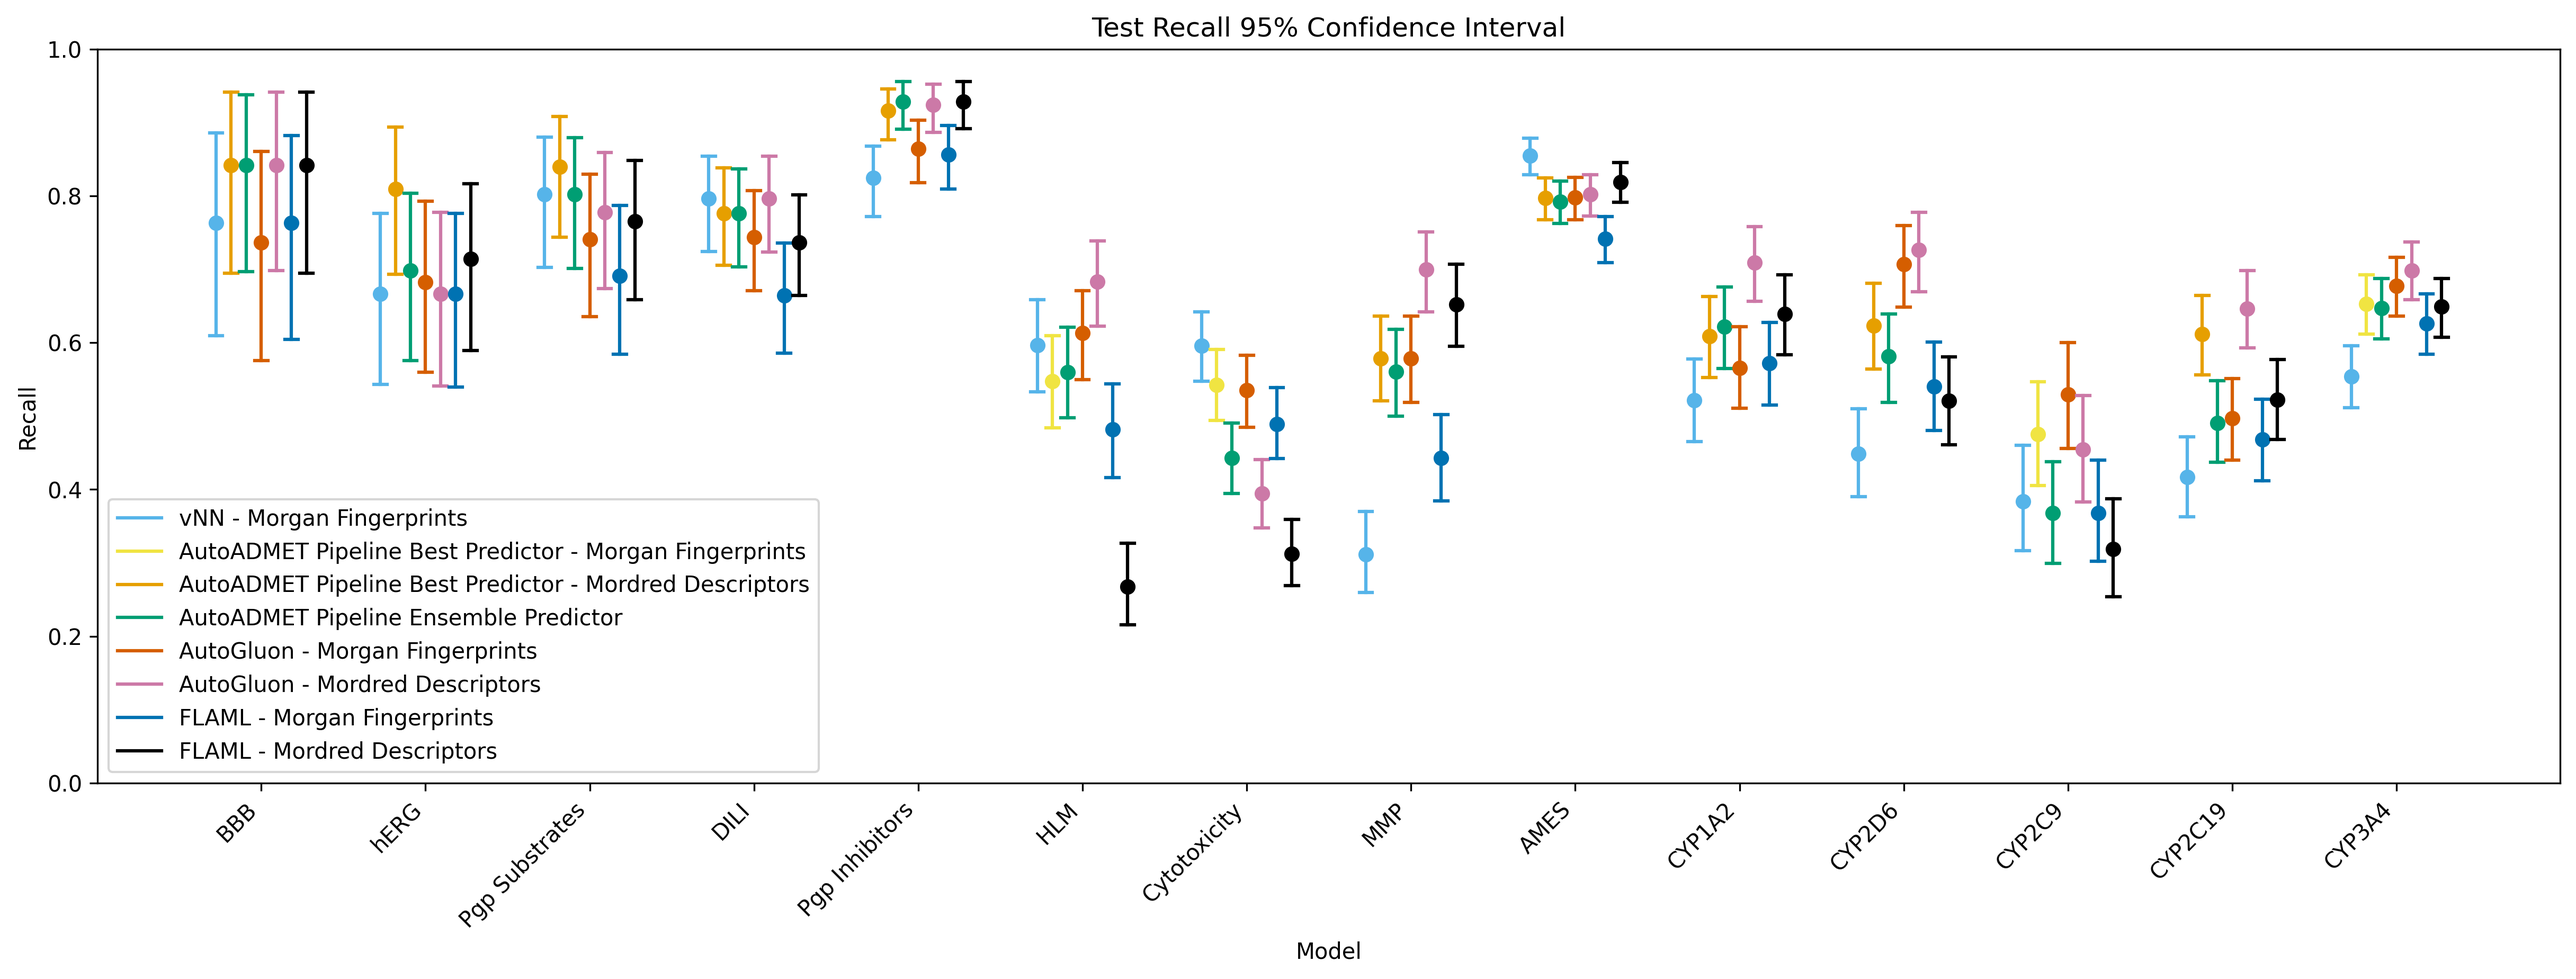
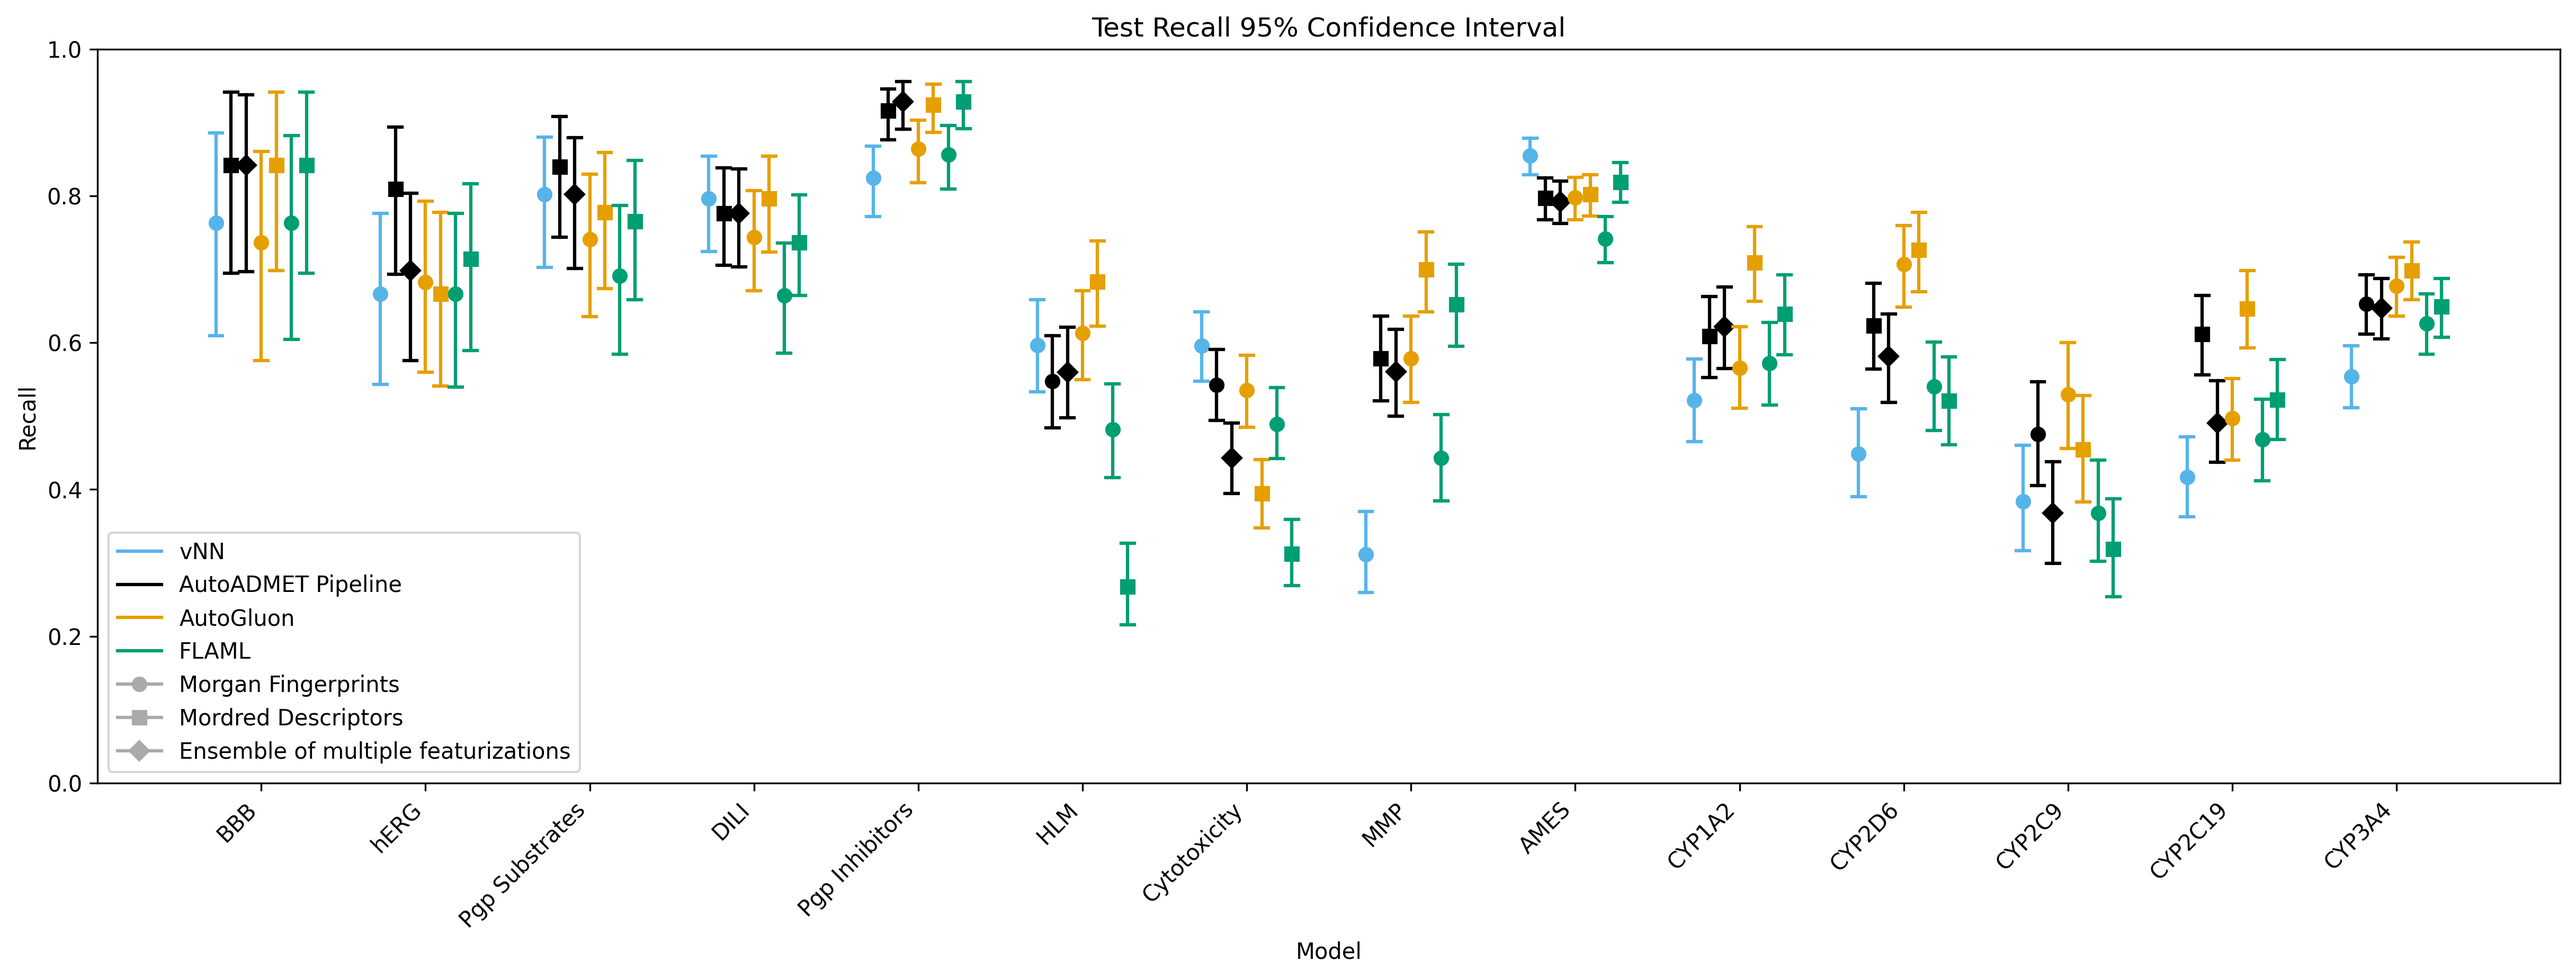
Change colors for extra frameworks

diff --git a/visualization/plot_performance.py b/visualization/plot_performance.py
@@ -3,6 +3,7 @@ from pathlib import Path
 import pandas as pd
 import itertools as it
 from matplotlib.lines import Line2D
+from matplotlib.markers import MarkerStyle
 import matplotlib.pyplot as plt
 from matplotlib import colors as mcolors
 import numpy as np
@@ -58,6 +59,7 @@ PLOT_CONFIGS = [
         0,
         "vNN - Morgan Fingerprints",
         "#56B4E9",
+        "o",
     ),
     (
         "autoadmet",
@@ -65,6 +67,7 @@ PLOT_CONFIGS = [
         1,
         "AutoADMET Pipeline Best Predictor - Morgan Fingerprints",
         "#F0E442",
+        "o",
     ),
     (
         "autoadmet",
@@ -72,6 +75,7 @@ PLOT_CONFIGS = [
         1,
         "AutoADMET Pipeline Best Predictor - Mordred Descriptors",
         "#E69F00",
+        "s",
     ),
     (
         "autoadmet",
@@ -79,37 +83,74 @@ PLOT_CONFIGS = [
         2,
         "AutoADMET Pipeline Ensemble Predictor",
         "#009E73",
+        "D",
     ),
 ]
 
 PLOT_CONFIGS_EXTRA_FRAMEWORKS = [
     (
+        "vnn",
+        "morgan_fp",
+        0,
+        "vNN - Morgan Fingerprints",
+        "#56B4E9",
+        "o",
+    ),
+    (
+        "autoadmet",
+        "morgan_fp",
+        1,
+        "AutoADMET Pipeline - Best Predictor - Morgan Fingerprints",
+        "#000000",
+        "o",
+    ),
+    (
+        "autoadmet",
+        "mordred_desc",
+        1,
+        "AutoADMET Pipeline - Best Predictor - Mordred Descriptors",
+        "#000000",
+        "s",
+    ),
+    (
+        "autoadmet",
+        "ensemble",
+        2,
+        "AutoADMET Pipeline - Ensemble Predictor",
+        "#000000",
+        "D",
+    ),
+    (
         "autogluon",
         "morgan_fp",
         3,
         "AutoGluon - Morgan Fingerprints",
-        "#D55E00",
+        "#E69F00",
+        "o",
     ),
     (
         "autogluon",
         "mordred_desc",
         4,
         "AutoGluon - Mordred Descriptors",
-        "#CC79A7",
+        "#E69F00",
+        "s",
     ),
     (
         "flaml",
         "morgan_fp",
         5,
         "FLAML - Morgan Fingerprints",
-        "#0072B2",
+        "#009E73",
+        "o",
     ),
     (
         "flaml",
         "mordred_desc",
         6,
         "FLAML - Mordred Descriptors",
-        "#000000",
+        "#009E73",
+        "s",
     ),
 ]
 
@@ -186,7 +227,7 @@ def make_combined_performance_df() -> pd.DataFrame:
 
 def plot_test_performance(
     combined_performance_df: pd.DataFrame,
-    plot_configs: dict[tuple[str, str], tuple[str, float, str]],
+    plot_configs: dict[tuple[str, str], tuple[str, str, float, str]],
 ):
     for metric in METRICS:
         fig = plt.figure(figsize=FIGSIZE, dpi=300)
@@ -207,7 +248,7 @@ def plot_test_performance(
             ]
 
             bottom, center, top = row[[f"{metric}-lb", metric, f"{metric}-ub"]]
-            color, offset, _ = plot_configs[(framework, featurization)]
+            color, marker, offset, _ = plot_configs[(framework, featurization)]
             x = datasets[datasets["DATASET"] == dataset].index[0] + offset
             left = x - TICK_WIDTH / 2
             right = x + TICK_WIDTH / 2
@@ -215,15 +256,36 @@ def plot_test_performance(
             ax.plot([x, x], [top, bottom], color=color)
             ax.plot([left, right], [top, top], color=color)
             ax.plot([left, right], [bottom, bottom], color=color)
-            ax.plot(x, center, "o", color=color)
+            ax.plot(x, center, marker, color=color)
 
-        handles = [
-            (
-                Line2D([0], [0], color=color),
-                display_name,
-            )
-            for (color, _, display_name) in plot_configs.values()
-        ]
+        if USE_EXTRA_FRAMEWORKS:
+            handles = [
+                *[
+                    (
+                        Line2D([0], [0], color=color),
+                        display_name,
+                    )
+                    for color, display_name in {
+                        (color, display_name.split(" - ")[0]): ""
+                        for color, _, _, display_name in plot_configs.values()
+                    }.keys()
+                ],
+                (Line2D([0], [0], color="#AAAAAA", marker="o"), "Morgan Fingerprints"),
+                (Line2D([0], [0], color="#AAAAAA", marker="s"), "Mordred Descriptors"),
+                (
+                    Line2D([0], [0], color="#AAAAAA", marker="D"),
+                    "Ensemble of multiple featurizations",
+                ),
+            ]
+        else:
+            handles = [
+                (
+                    Line2D([0], [0], color=color, marker=marker),
+                    display_name,
+                )
+                for color, marker, _, display_name in plot_configs.values()
+            ]
+
         ax.legend(*zip(*handles))
 
         fig.savefig(
@@ -234,7 +296,7 @@ def plot_test_performance(
 
 def plot_time_performance(
     combined_performance_df: pd.DataFrame,
-    plot_configs: dict[tuple[str, str], tuple[str, float, str]],
+    plot_configs: dict[tuple[str, str], tuple[str, str, float, str]],
 ):
     for time_key, time_display_name, unit, multiplier, y_max in [
         (
@@ -310,7 +372,7 @@ def plot_time_performance(
             ]
 
             y = row[time_key] * 1000 * multiplier
-            color, offset, _ = plot_configs[(framework, featurization)]
+            color, marker, offset, _ = plot_configs[(framework, featurization)]
             x = datasets[datasets["DATASET"] == dataset].index[0] + offset
 
             ax.bar(x, height=y, width=0.1, color=color)
@@ -320,7 +382,7 @@ def plot_time_performance(
                 Line2D([0], [0], color=color),
                 display_name,
             )
-            for (color, _, display_name) in plot_configs.values()
+            for (color, marker, _, display_name) in plot_configs.values()
         ]
         ax.legend(*zip(*handles))
 
@@ -329,12 +391,12 @@ def plot_time_performance(
 
 def plot_ranking_bar_chart(
     combined_performance_df: pd.DataFrame,
-    plot_configs: dict[tuple[str, str], tuple[str, float, str]],
+    plot_configs: dict[tuple[str, str], tuple[str, str, float, str]],
     n_offsets: int,
 ):
     # Add column for configuration
     combined_performance_df["config"] = combined_performance_df.apply(
-        lambda row: plot_configs[(row["framework"], row["featurization"])][2],
+        lambda row: plot_configs[(row["framework"], row["featurization"])][3],
         axis=1,
     )
 
@@ -360,7 +422,7 @@ def plot_ranking_bar_chart(
             stacked=True,
             color={
                 display_name: color
-                for (color, _, display_name) in plot_configs.values()
+                for (color, marker, _, display_name) in plot_configs.values()
             },
         )
     )
@@ -437,19 +499,19 @@ def main():
 
     combined_performance_df = make_combined_performance_df()
 
-    plot_configs_to_use = [
-        *PLOT_CONFIGS,
-        *(PLOT_CONFIGS_EXTRA_FRAMEWORKS if USE_EXTRA_FRAMEWORKS else []),
-    ]
+    plot_configs_to_use = (
+        PLOT_CONFIGS_EXTRA_FRAMEWORKS if USE_EXTRA_FRAMEWORKS else PLOT_CONFIGS
+    )
 
-    n_offsets = len({offset for _, _, offset, _, _ in plot_configs_to_use})
+    n_offsets = len({offset for _, _, offset, _, _, _ in plot_configs_to_use})
     plot_configs = {
         (framework, featurization): (
             color,
+            marker,
             offset * SPREAD / (n_offsets - 1) - SPREAD / 2,
             display_name,
         )
-        for framework, featurization, offset, display_name, color in plot_configs_to_use
+        for framework, featurization, offset, display_name, color, marker in plot_configs_to_use
     }
 
     combined_performance_df = combined_performance_df[
